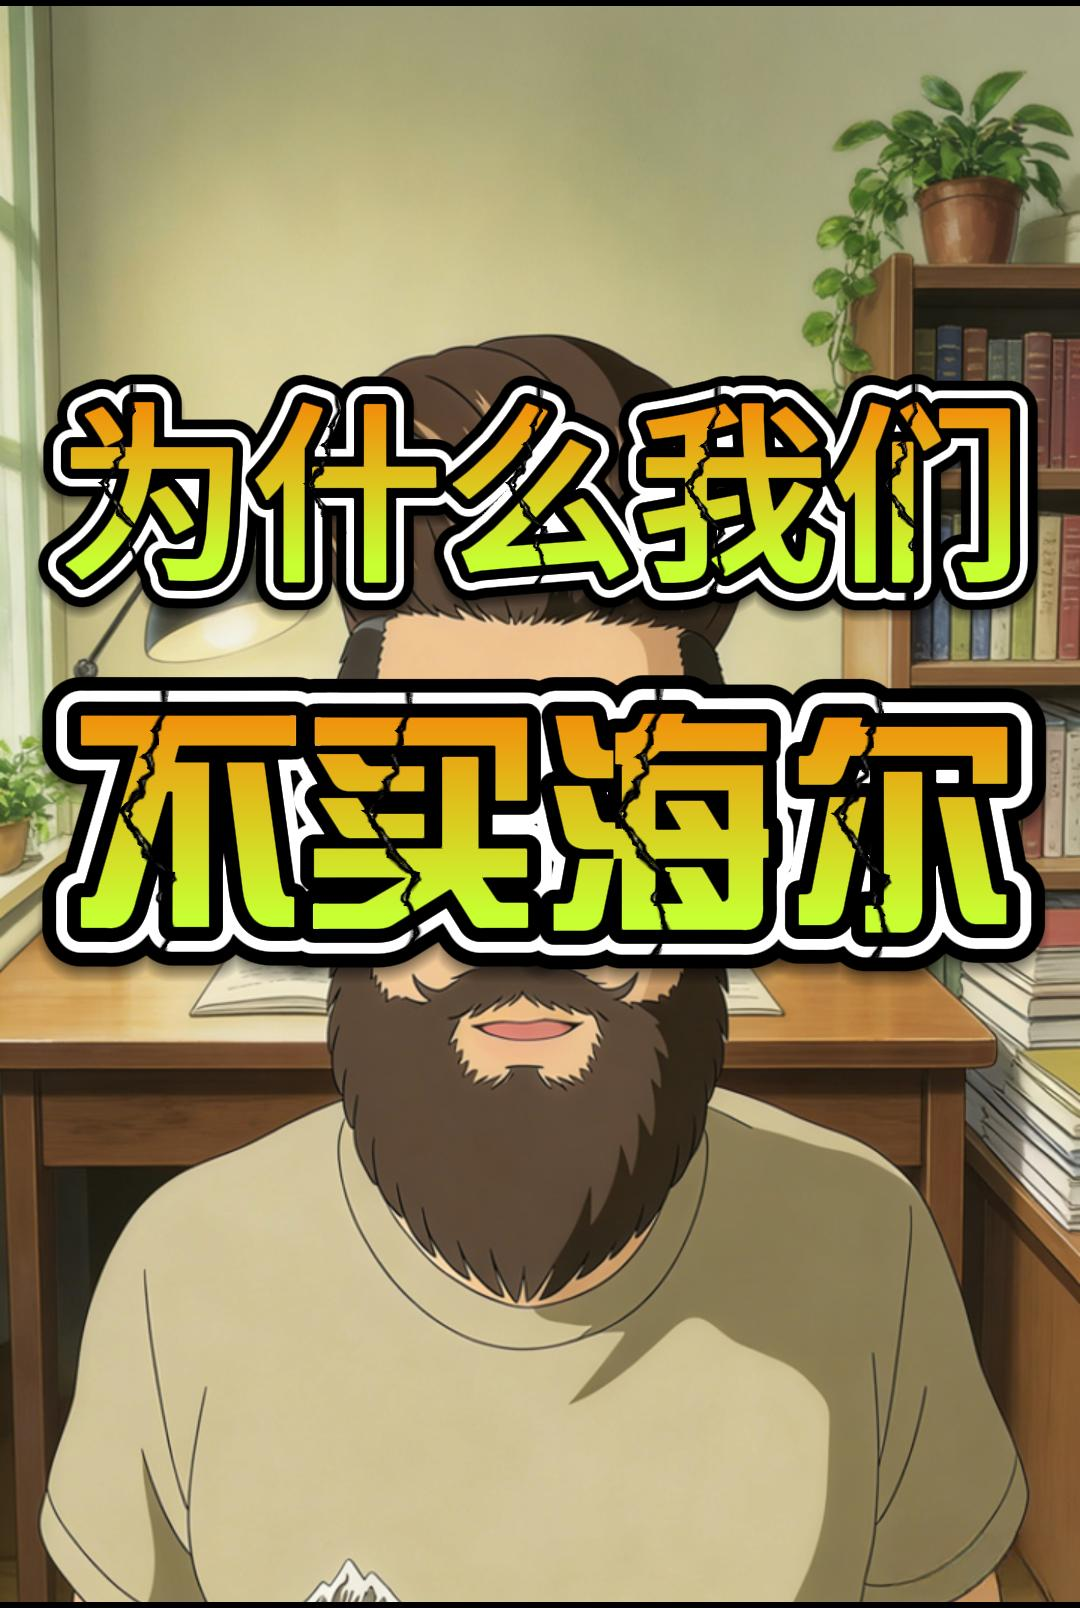
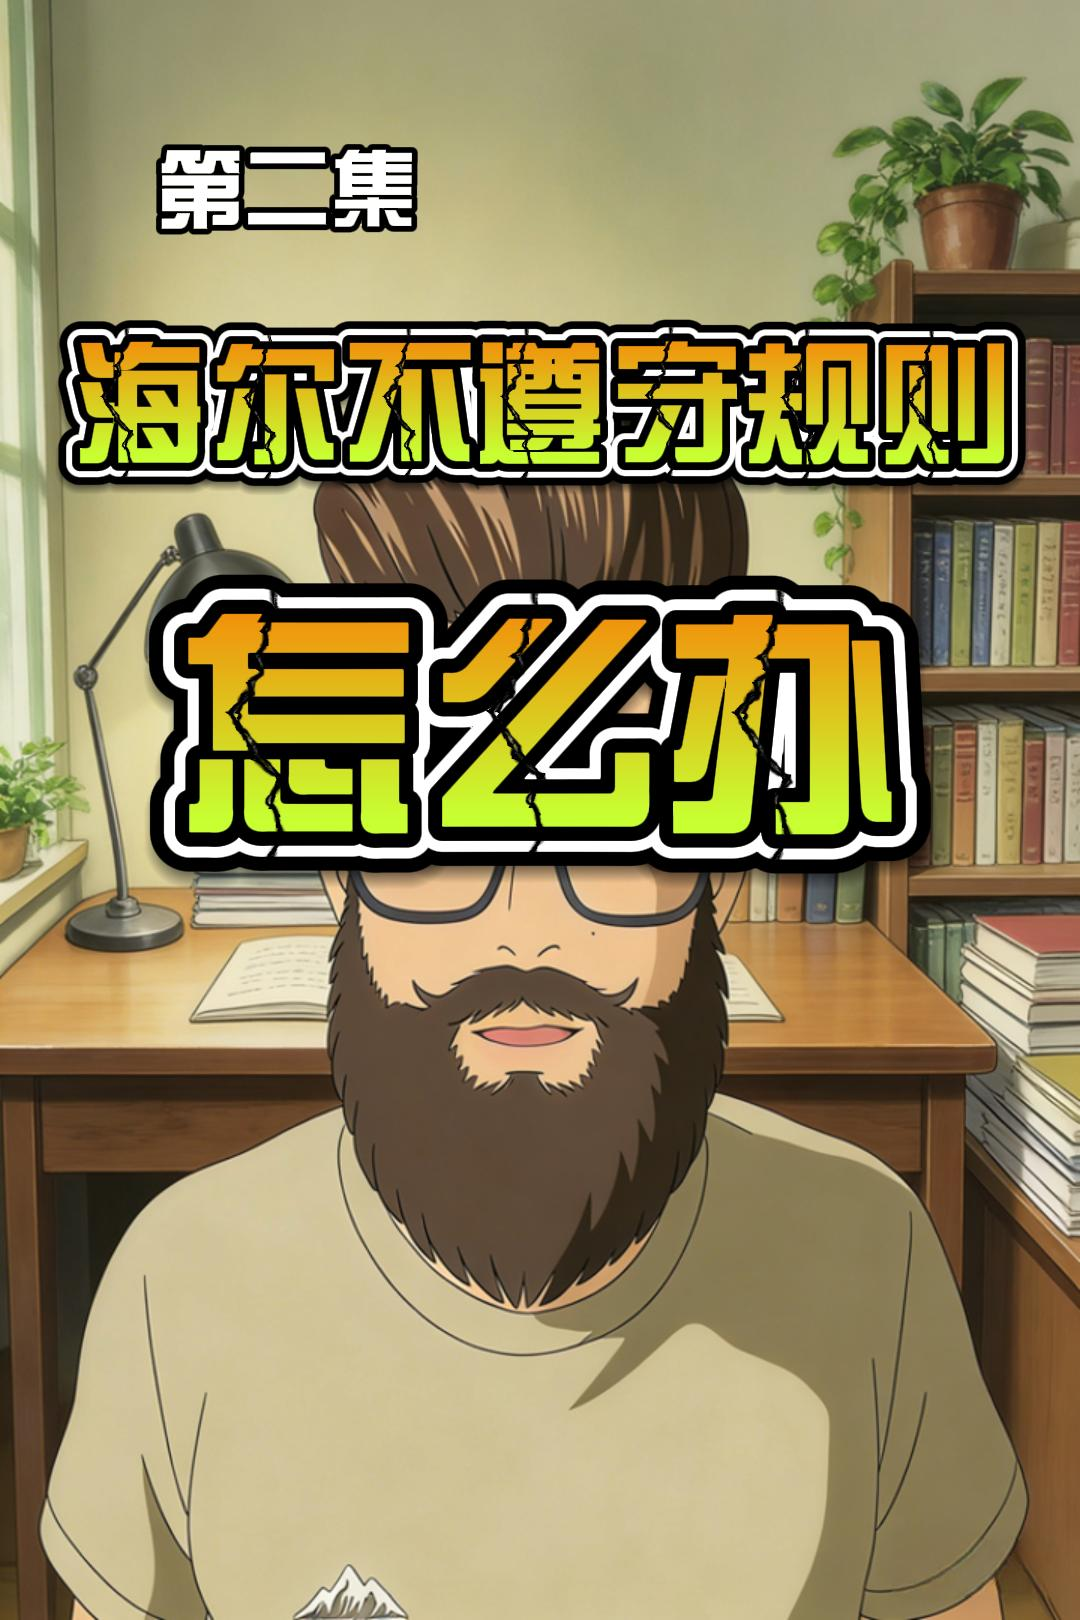
[feature]:location date change

diff --git a/add_date_to_image.py b/add_date_to_image.py
@@ -60,7 +60,7 @@ def add_date_to_image(image_path, output_path=None, date_format="%Y年%m月%d日
     
     # 计算文字位置（右下角，红框位置）
     margin_right = int(width * 0.08)  # 距离右边8%
-    margin_bottom = int(height * 0.32)  # 距离底部42%（约在身体中部）
+    margin_bottom = int(height * 0.20)  # 距离底部20%
     x = width - text_width - margin_right
     y = height - text_height - margin_bottom
     
